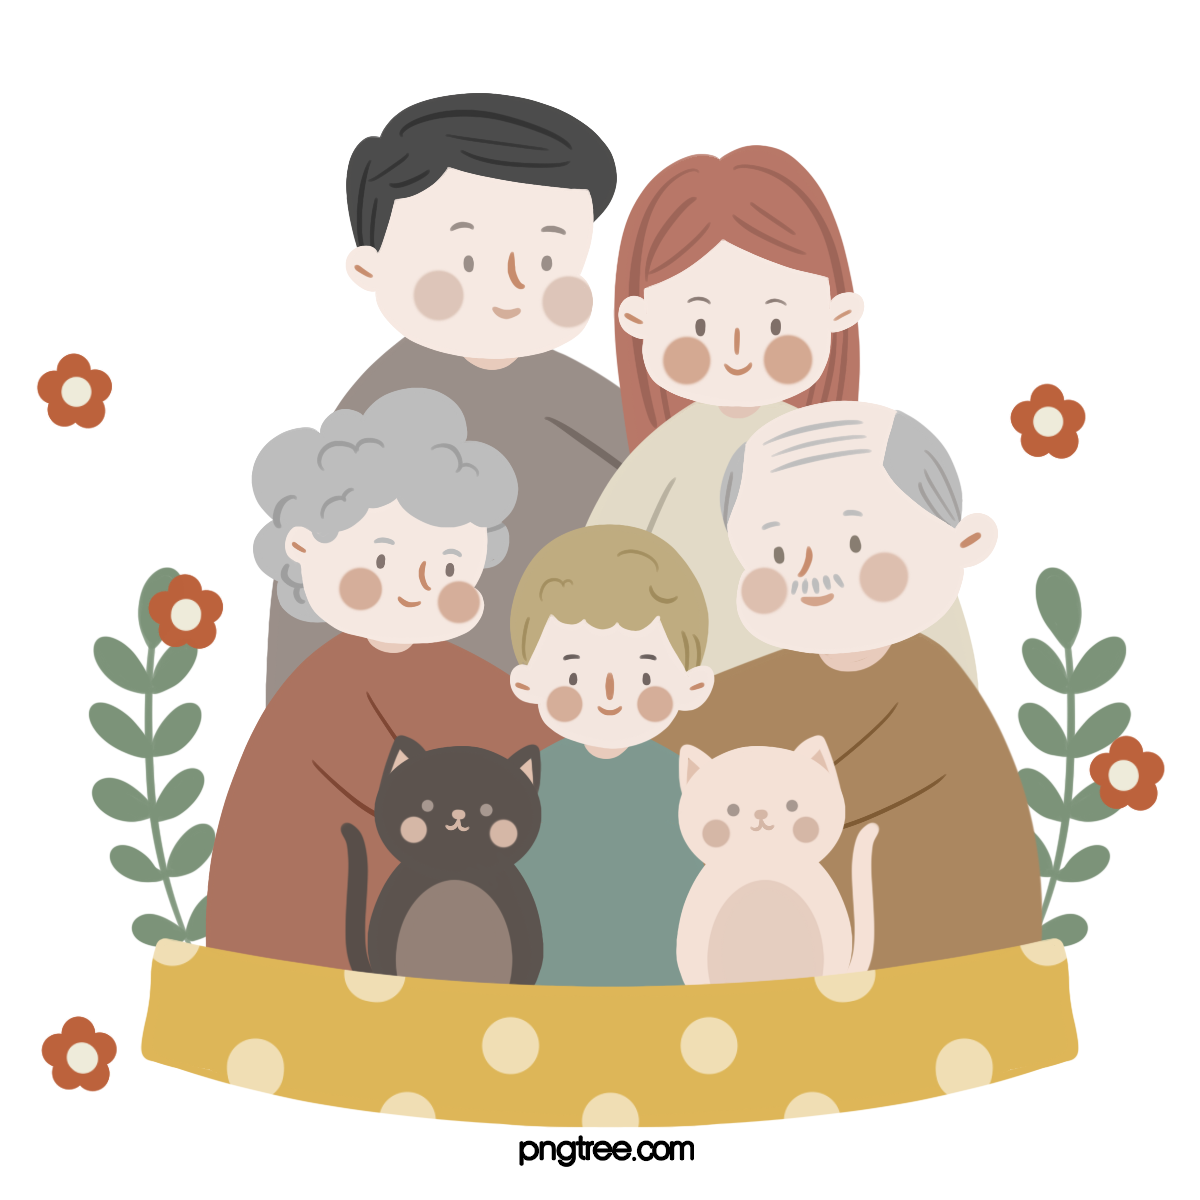
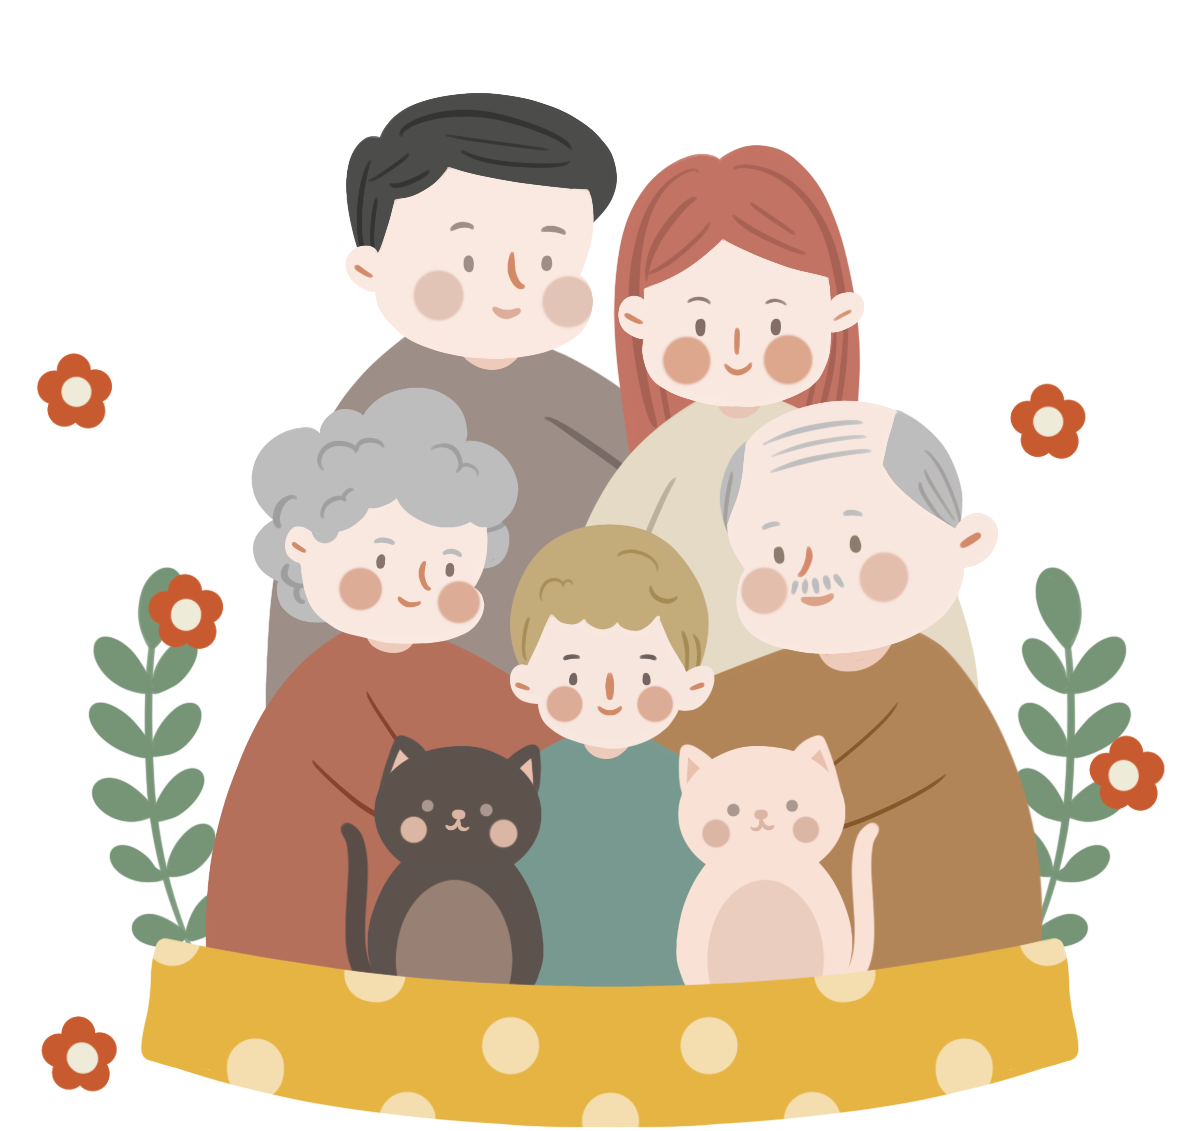
main CSS change

diff --git a/src/main/resources/static/CSS/style.css b/src/main/resources/static/CSS/style.css
@@ -111,11 +111,11 @@ header {
     margin-top: 70px;
     text-align: center;
     background-color: rgb(245, 223, 102);
-    background-image: linear-gradient(rgba(243, 235, 235, 0.05), rgba(0, 0, 0, 0.05)), url(../img/family2.png);
+    background-image: linear-gradient(rgba(243, 235, 235, 0.05), rgba(0, 0, 0, 0.05)), url(../img/family3.png);
     background-position: center;
     background-size: cover;
-    height: 100vh;
-    min-height: 450px;
+    height: 120vh;
+    min-height: 800px;
     display: flex;
     align-items: center;
     justify-content: center;
@@ -137,7 +137,7 @@ header {
     font-size: 20px;
     font-family: 'Gugi', cursive;
     color: rgb(202, 212, 216);
-    background-color: rgba(26, 75, 100, 0.425);
+    background-color:  rgb(46, 53, 49);
     padding: 10px 30px;
     border: solid 4px rgba(152, 153, 153, 0.747);
     border-radius: 7px;
@@ -160,7 +160,7 @@ header {
 
 footer {
 
-    background-color: #333;
+    background-color: rgb(46, 53, 49);
     color: whitesmoke;
 }
 

diff --git a/src/main/resources/static/main.html b/src/main/resources/static/main.html
@@ -34,6 +34,7 @@
                 <ul>
                     <li><a href="About/about.html">CLVOER</a></li>
                     <li><a href="QR/QR.html">MY QR</a></li>
+                    <li><a href="Order/order.html">ORDER</a></li>
                     <li><a href="Board/board.html">FIND & FOUND</a></li>
                     <li><a href="Join/join.html">JOIN</a></li>
                 </ul>
@@ -45,7 +46,8 @@
     <!--content1-->
     <section class="container1">
         <div href class="container">
-            <h1>FAMILY</h1>
+            <h1>CLOVER</h1>
+            <h2>WITH MY FAMILY</h2>
         </div>
     </section>
 
